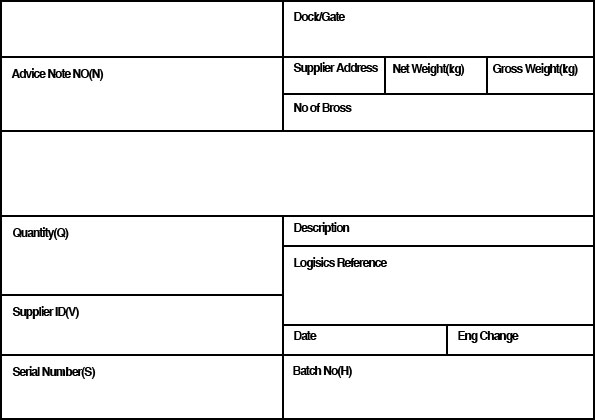
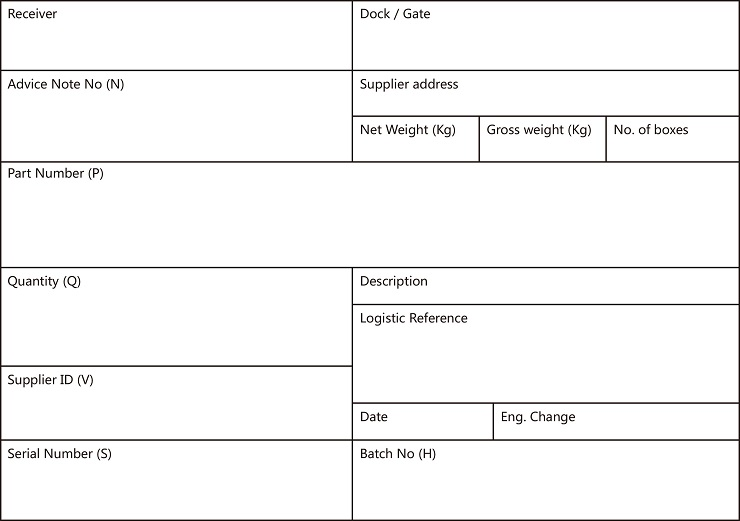
no message

Changed region(s): [[0.0, 0.0, 1.0, 1.0]]

diff --git a/app/Admin/View/Banji/index_3.html b/app/Admin/View/Banji/index_3.html
@@ -292,14 +292,14 @@
                                 if(json.code==0){
 
                                     LODOP=getLodop();  
-                                    LODOP.PRINT_INIT("多打测试");
+                                    LODOP.PRINT_INITA(3,8,800,600,"打印控件功能演示_Lodop功能_空白练习");
                                     // LODOP.SET_PRINT_PAGESIZE(1,2970,2100,"");
 
                                     $.each(json.data, function(key, value){
                                         CreateOnePage(value);     
                                     });
 
-   
+
                                     LODOP.ADD_PRINT_SETUP_BKIMG("<img border='0' src='"+type+"' />");
                                     LODOP.SET_SHOW_MODE("BKIMG_IN_PREVIEW",true);  
                                     LODOP.SET_SHOW_MODE("BKIMG_PRINT",true);  
@@ -353,38 +353,107 @@
 
 
 
-                                LODOP.ADD_PRINT_TEXT(22,30,227,20,Receiver);
-                                LODOP.SET_PRINT_STYLEA(0,"FontSize",11);
-                                LODOP.ADD_PRINT_TEXT(26,301,267,20,DockGate);
-                                LODOP.SET_PRINT_STYLEA(0,"FontSize",11);
-                                LODOP.ADD_PRINT_TEXT(66,114,157,20,AdviceNoteNo);
-                                LODOP.ADD_PRINT_TEXT(80,287,100,15,SupplierAddress);
-                                LODOP.ADD_PRINT_TEXT(80,392,90,15,NetWeight);
-                                LODOP.ADD_PRINT_TEXT(80,493,90,15,GrossWeight);
-                                LODOP.ADD_PRINT_TEXT(103,366,205,20,NoofBoxes);
-                                LODOP.ADD_PRINT_TEXT(141,118,165,20,PartsNumber);
-                                LODOP.SET_PRINT_STYLEA(0,"FontSize",11);
-                                LODOP.ADD_PRINT_TEXT(224,77,194,20,PartsCount);
-                                LODOP.ADD_PRINT_TEXT(302,87,175,20,SupplierID);
-                                LODOP.ADD_PRINT_TEXT(363,103,165,20,SerialNumber);
-                                LODOP.ADD_PRINT_TEXT(363,366,207,20,BatchNo);
-                                LODOP.ADD_PRINT_TEXT(330,324,120,20,_Date);
-                                LODOP.ADD_PRINT_TEXT(330,520,75,20,EngChange);
-                                LODOP.ADD_PRINT_TEXT(283,295,294,20,LogisticsReference);
-                                LODOP.SET_PRINT_STYLEA(0,"FontSize",11);
-                                LODOP.ADD_PRINT_TEXT(222,363,221,20,Description);
-                                LODOP.ADD_PRINT_BARCODE(164,24,466,50,"Code39",PartsNumber);
+                                // LODOP.ADD_PRINT_TEXT(22,30,227,20,Receiver);
+                                // LODOP.SET_PRINT_STYLEA(0,"FontSize",11);
+                                // LODOP.ADD_PRINT_TEXT(26,301,267,20,DockGate);
+                                // LODOP.SET_PRINT_STYLEA(0,"FontSize",11);
+                                // LODOP.ADD_PRINT_TEXT(66,114,157,20,AdviceNoteNo);
+                                // LODOP.ADD_PRINT_TEXT(80,287,100,15,SupplierAddress);
+                                // LODOP.ADD_PRINT_TEXT(80,392,90,15,NetWeight);
+                                // LODOP.ADD_PRINT_TEXT(80,493,90,15,GrossWeight);
+                                // LODOP.ADD_PRINT_TEXT(103,366,205,20,NoofBoxes);
+                                // LODOP.ADD_PRINT_TEXT(141,118,165,20,PartsNumber);
+                                // LODOP.SET_PRINT_STYLEA(0,"FontSize",11);
+                                // LODOP.ADD_PRINT_TEXT(224,77,194,20,PartsCount);
+                                // LODOP.ADD_PRINT_TEXT(302,87,175,20,SupplierID);
+                                // LODOP.ADD_PRINT_TEXT(363,103,165,20,SerialNumber);
+                                // LODOP.ADD_PRINT_TEXT(363,366,207,20,BatchNo);
+                                // LODOP.ADD_PRINT_TEXT(330,324,120,20,_Date);
+                                // LODOP.ADD_PRINT_TEXT(330,520,75,20,EngChange);
+                                // LODOP.ADD_PRINT_TEXT(283,295,294,20,LogisticsReference);
+                                // LODOP.SET_PRINT_STYLEA(0,"FontSize",11);
+                                // LODOP.ADD_PRINT_TEXT(222,363,221,20,Description);
+                                // LODOP.ADD_PRINT_BARCODE(164,24,466,50,"Code39",PartsNumber);
+                                // LODOP.SET_PRINT_STYLEA(0,"ShowBarText",0);
+                                // LODOP.ADD_PRINT_BARCODE(88,24,256,40,"Code39",AdviceNoteNo);
+                                // LODOP.SET_PRINT_STYLEA(0,"ShowBarText",0);
+                                // LODOP.ADD_PRINT_BARCODE(245,24,252,45,"Code39",PartsCount);
+                                // LODOP.SET_PRINT_STYLEA(0,"ShowBarText",0);
+                                // LODOP.ADD_PRINT_BARCODE(324,25,252,30,"Code39",SupplierID);
+                                // LODOP.SET_PRINT_STYLEA(0,"ShowBarText",0);
+                                // LODOP.ADD_PRINT_BARCODE(384,26,254,35,"Code39",SerialNumber);
+                                // LODOP.SET_PRINT_STYLEA(0,"ShowBarText",0);
+                                // LODOP.ADD_PRINT_BARCODE(384,304,279,34,"Code39",BatchNo);
+                                // LODOP.SET_PRINT_STYLEA(0,"ShowBarText",0);
+
+
+
+
+
+                                
+                                
+                                LODOP.ADD_PRINT_TEXT(28,36,298,25,Receiver);
+                                LODOP.SET_PRINT_STYLEA(0,"FontName","微软雅黑");
+                                LODOP.SET_PRINT_STYLEA(0,"FontSize",14);
+                                LODOP.ADD_PRINT_TEXT(18,455,265,50,DockGate);
+                                LODOP.SET_PRINT_STYLEA(0,"FontName","微软雅黑");
+                                LODOP.SET_PRINT_STYLEA(0,"FontSize",28);
+                                LODOP.ADD_PRINT_TEXT(77,134,163,25,AdviceNoteNo);
+                                LODOP.SET_PRINT_STYLEA(0,"FontName","微软雅黑");
+                                LODOP.SET_PRINT_STYLEA(0,"FontSize",14);
+                                LODOP.ADD_PRINT_TEXT(96,375,329,20,SupplierAddress);
+                                LODOP.SET_PRINT_STYLEA(0,"FontName","微软雅黑");
+                                LODOP.SET_PRINT_STYLEA(0,"FontSize",14);
+                                LODOP.ADD_PRINT_TEXT(141,387,65,20,NetWeight);
+                                LODOP.SET_PRINT_STYLEA(0,"FontName","微软雅黑");
+                                LODOP.SET_PRINT_STYLEA(0,"FontSize",12);
+                                LODOP.ADD_PRINT_TEXT(141,514,65,20,GrossWeight);
+                                LODOP.SET_PRINT_STYLEA(0,"FontName","微软雅黑");
+                                LODOP.SET_PRINT_STYLEA(0,"FontSize",12);
+                                LODOP.ADD_PRINT_TEXT(141,639,54,20,NoofBoxes);
+                                LODOP.SET_PRINT_STYLEA(0,"FontName","微软雅黑");
+                                LODOP.SET_PRINT_STYLEA(0,"FontSize",12);
+                                LODOP.ADD_PRINT_TEXT(168,127,327,40,PartsNumber);
+                                LODOP.SET_PRINT_STYLEA(0,"FontName","微软雅黑");
+                                LODOP.SET_PRINT_STYLEA(0,"FontSize",28);
+                                LODOP.ADD_PRINT_TEXT(269,94,253,40,PartsCount);
+                                LODOP.SET_PRINT_STYLEA(0,"FontName","微软雅黑");
+                                LODOP.SET_PRINT_STYLEA(0,"FontSize",28);
+                                LODOP.ADD_PRINT_TEXT(445,124,156,20,SerialNumber);
+                                LODOP.SET_PRINT_STYLEA(0,"FontName","微软雅黑");
+                                LODOP.SET_PRINT_STYLEA(0,"FontSize",12);
+                                LODOP.ADD_PRINT_TEXT(275,436,261,25,Description);
+                                LODOP.SET_PRINT_STYLEA(0,"FontName","微软雅黑");
+                                LODOP.SET_PRINT_STYLEA(0,"FontSize",14);
+                                LODOP.ADD_PRINT_TEXT(348,373,339,25,LogisticsReference);
+                                LODOP.SET_PRINT_STYLEA(0,"FontName","微软雅黑");
+                                LODOP.SET_PRINT_STYLEA(0,"FontSize",14);
+                                LODOP.ADD_PRINT_TEXT(371,107,186,20,SupplierID);
+                                LODOP.SET_PRINT_STYLEA(0,"FontName","微软雅黑");
+                                LODOP.SET_PRINT_STYLEA(0,"FontSize",12);
+                                LODOP.ADD_PRINT_TEXT(445,449,186,20,BatchNo);
+                                LODOP.SET_PRINT_STYLEA(0,"FontName","微软雅黑");
+                                LODOP.SET_PRINT_STYLEA(0,"FontSize",12);
+                                LODOP.ADD_PRINT_TEXT(413,583,150,20,EngChange);
+                                LODOP.SET_PRINT_STYLEA(0,"FontName","微软雅黑");
+                                LODOP.SET_PRINT_STYLEA(0,"FontSize",14);
+                                LODOP.ADD_PRINT_TEXT(413,388,105,20,_Date);
+                                LODOP.SET_PRINT_STYLEA(0,"FontName","微软雅黑");
+                                LODOP.SET_PRINT_STYLEA(0,"FontSize",14);
+                                LODOP.ADD_PRINT_BARCODE(109,45,161,"12.99mm","Code39",AdviceNoteNo);
                                 LODOP.SET_PRINT_STYLEA(0,"ShowBarText",0);
-                                LODOP.ADD_PRINT_BARCODE(88,24,256,40,"Code39",AdviceNoteNo);
+                                LODOP.ADD_PRINT_BARCODE(214,47,224,49,"Code39",PartsNumber);
                                 LODOP.SET_PRINT_STYLEA(0,"ShowBarText",0);
-                                LODOP.ADD_PRINT_BARCODE(245,24,252,45,"Code39",PartsCount);
+                                LODOP.ADD_PRINT_BARCODE(313,48,161,49,"Code39",PartsCount);
                                 LODOP.SET_PRINT_STYLEA(0,"ShowBarText",0);
-                                LODOP.ADD_PRINT_BARCODE(324,25,252,30,"Code39",SupplierID);
+                                LODOP.ADD_PRINT_BARCODE(389,48,166,49,"Code39",SupplierID);
                                 LODOP.SET_PRINT_STYLEA(0,"ShowBarText",0);
-                                LODOP.ADD_PRINT_BARCODE(384,26,254,35,"Code39",SerialNumber);
+                                LODOP.ADD_PRINT_BARCODE(470,48,166,49,"Code39",SerialNumber);
                                 LODOP.SET_PRINT_STYLEA(0,"ShowBarText",0);
-                                LODOP.ADD_PRINT_BARCODE(384,304,279,34,"Code39",BatchNo);
+                                LODOP.ADD_PRINT_BARCODE(469,398,163,49,"Code39",BatchNo);
                                 LODOP.SET_PRINT_STYLEA(0,"ShowBarText",0);
+
+
 
 
 
